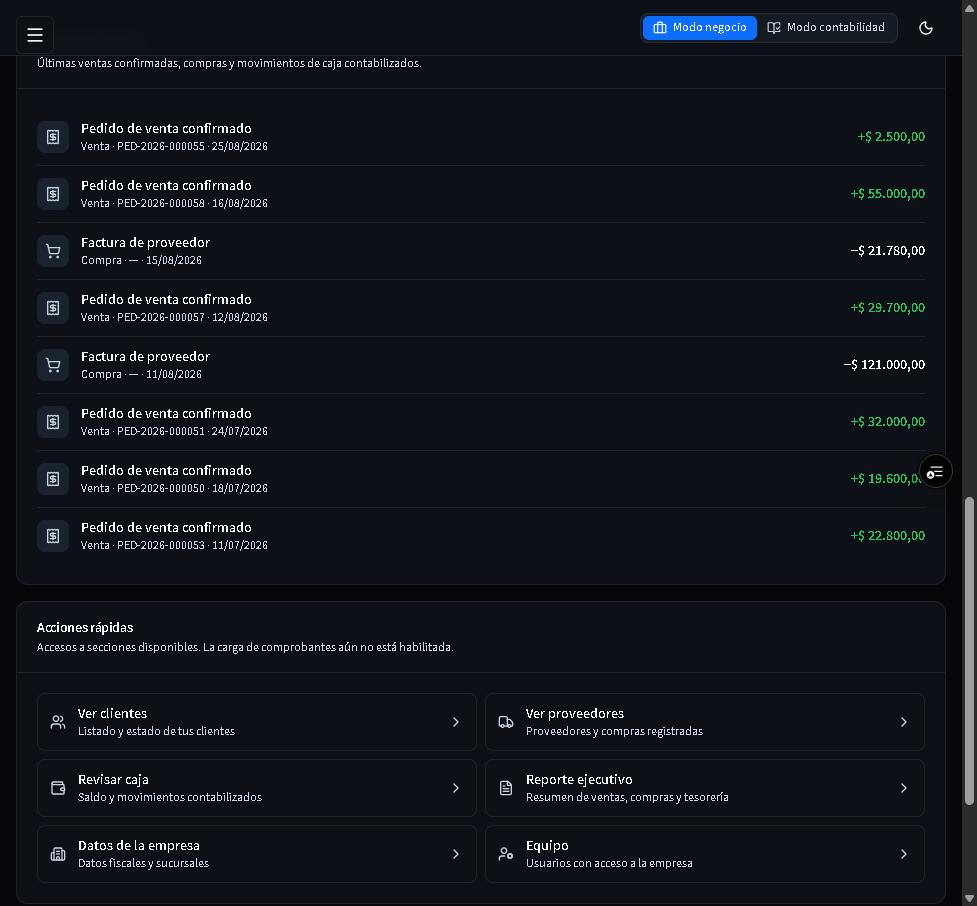
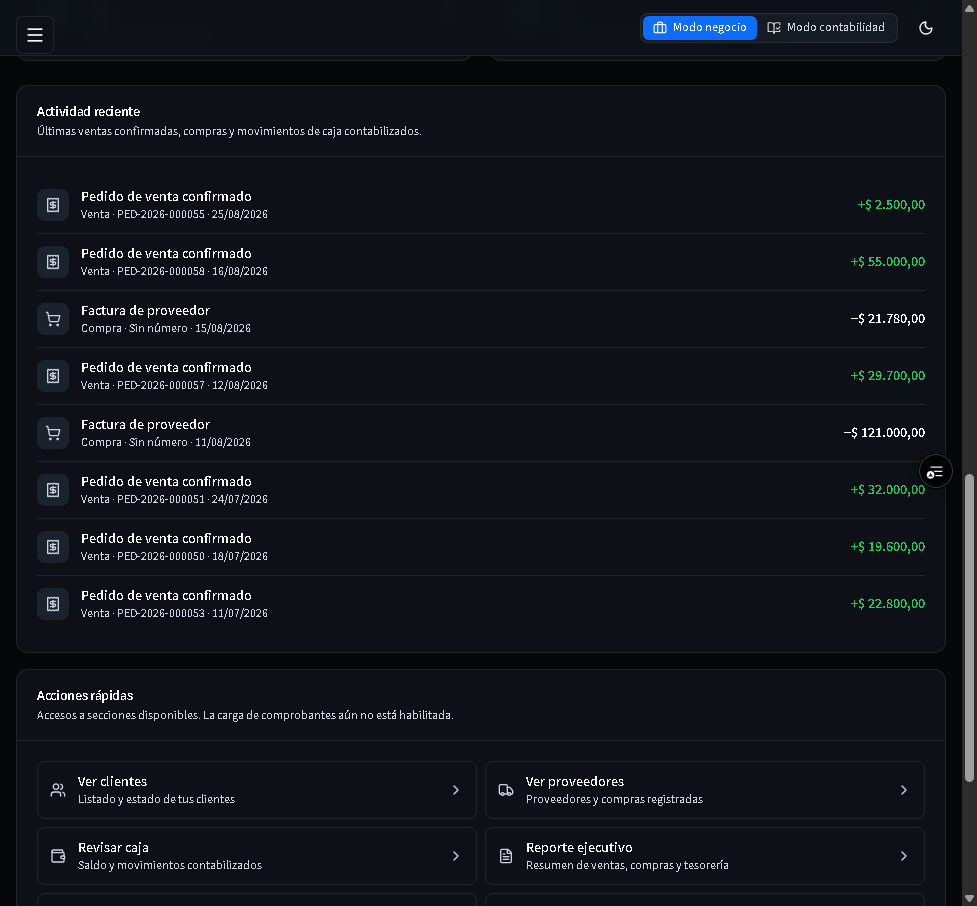
fix(ui): humanize treasury codes, hide internal module codes; refresh manual screenshots

diff --git a/src/lib/demo-data/format.ts b/src/lib/demo-data/format.ts
@@ -149,7 +149,7 @@ export function memberStatusLabel(status: string | null | undefined) {
   return MEMBER_STATUS[status ?? ""] ?? { label: status || "—", tone: "neutral" as Tone };
 }
 
-/** Stored descriptions may embed raw document-type codes (e.g. "Compra SUPPLIER_INVOICE"). */
+/** Stored descriptions may embed raw type codes (e.g. "Compra SUPPLIER_INVOICE", "TRANSFER TRF-…"). */
 const DOCUMENT_TYPE_WORDS: Record<string, string> = {
   SUPPLIER_INVOICE: "factura de proveedor",
   SUPPLIER_CREDIT_NOTE: "nota de crédito de proveedor",
@@ -157,6 +157,11 @@ const DOCUMENT_TYPE_WORDS: Record<string, string> = {
   SALES_ORDER: "pedido de venta",
   SALES_QUOTE: "presupuesto",
   SALES_INVOICE: "factura de venta",
+  OPENING_BALANCE: "Saldo inicial",
+  PAYMENT: "Pago",
+  COLLECTION: "Cobranza",
+  TRANSFER: "Transferencia",
+  ADJUSTMENT: "Ajuste",
 };
 
 const DOCUMENT_TYPE_PATTERN = new RegExp(`\\b(${Object.keys(DOCUMENT_TYPE_WORDS).join("|")})\\b`, "g");

diff --git a/src/app/(app)/settings/page.tsx b/src/app/(app)/settings/page.tsx
@@ -70,12 +70,7 @@ export default async function SettingsPage() {
                 key={`${cat?.code ?? idx}`}
                 className="flex items-center justify-between rounded-md border border-border px-3 py-2 text-sm"
               >
-                <div>
-                  <p className="font-medium">{cat?.name ?? "—"}</p>
-                  <p className="text-xs text-muted-foreground">
-                    {cat?.code} · {cat?.category}
-                  </p>
-                </div>
+                <p className="font-medium">{cat?.name ?? "—"}</p>
                 <Badge tone={featureStatusLabel(f.status).tone}>
                   {featureStatusLabel(f.status).label}
                 </Badge>

diff --git a/tests/unit/ui-mode/ux-mode.test.tsx b/tests/unit/ui-mode/ux-mode.test.tsx
@@ -508,6 +508,8 @@ describe("display labels", () => {
       "NC nota de crédito de proveedor / pedido de venta"
     );
     expect(humanizeDescription("MY_SUPPLIER_INVOICE_X")).toBe("MY_SUPPLIER_INVOICE_X");
+    expect(humanizeDescription("TRANSFER TRF-2026-000001")).toBe("Transferencia TRF-2026-000001");
+    expect(humanizeDescription("Demo-TR-XFER-1")).toBe("Demo-TR-XFER-1");
     expect(humanizeDescription(null)).toBe("—");
     expect(featureStatusLabel("enabled")).toEqual({ label: "Habilitado", tone: "success" });
     expect(featureStatusLabel("disabled").label).toBe("Deshabilitado");
